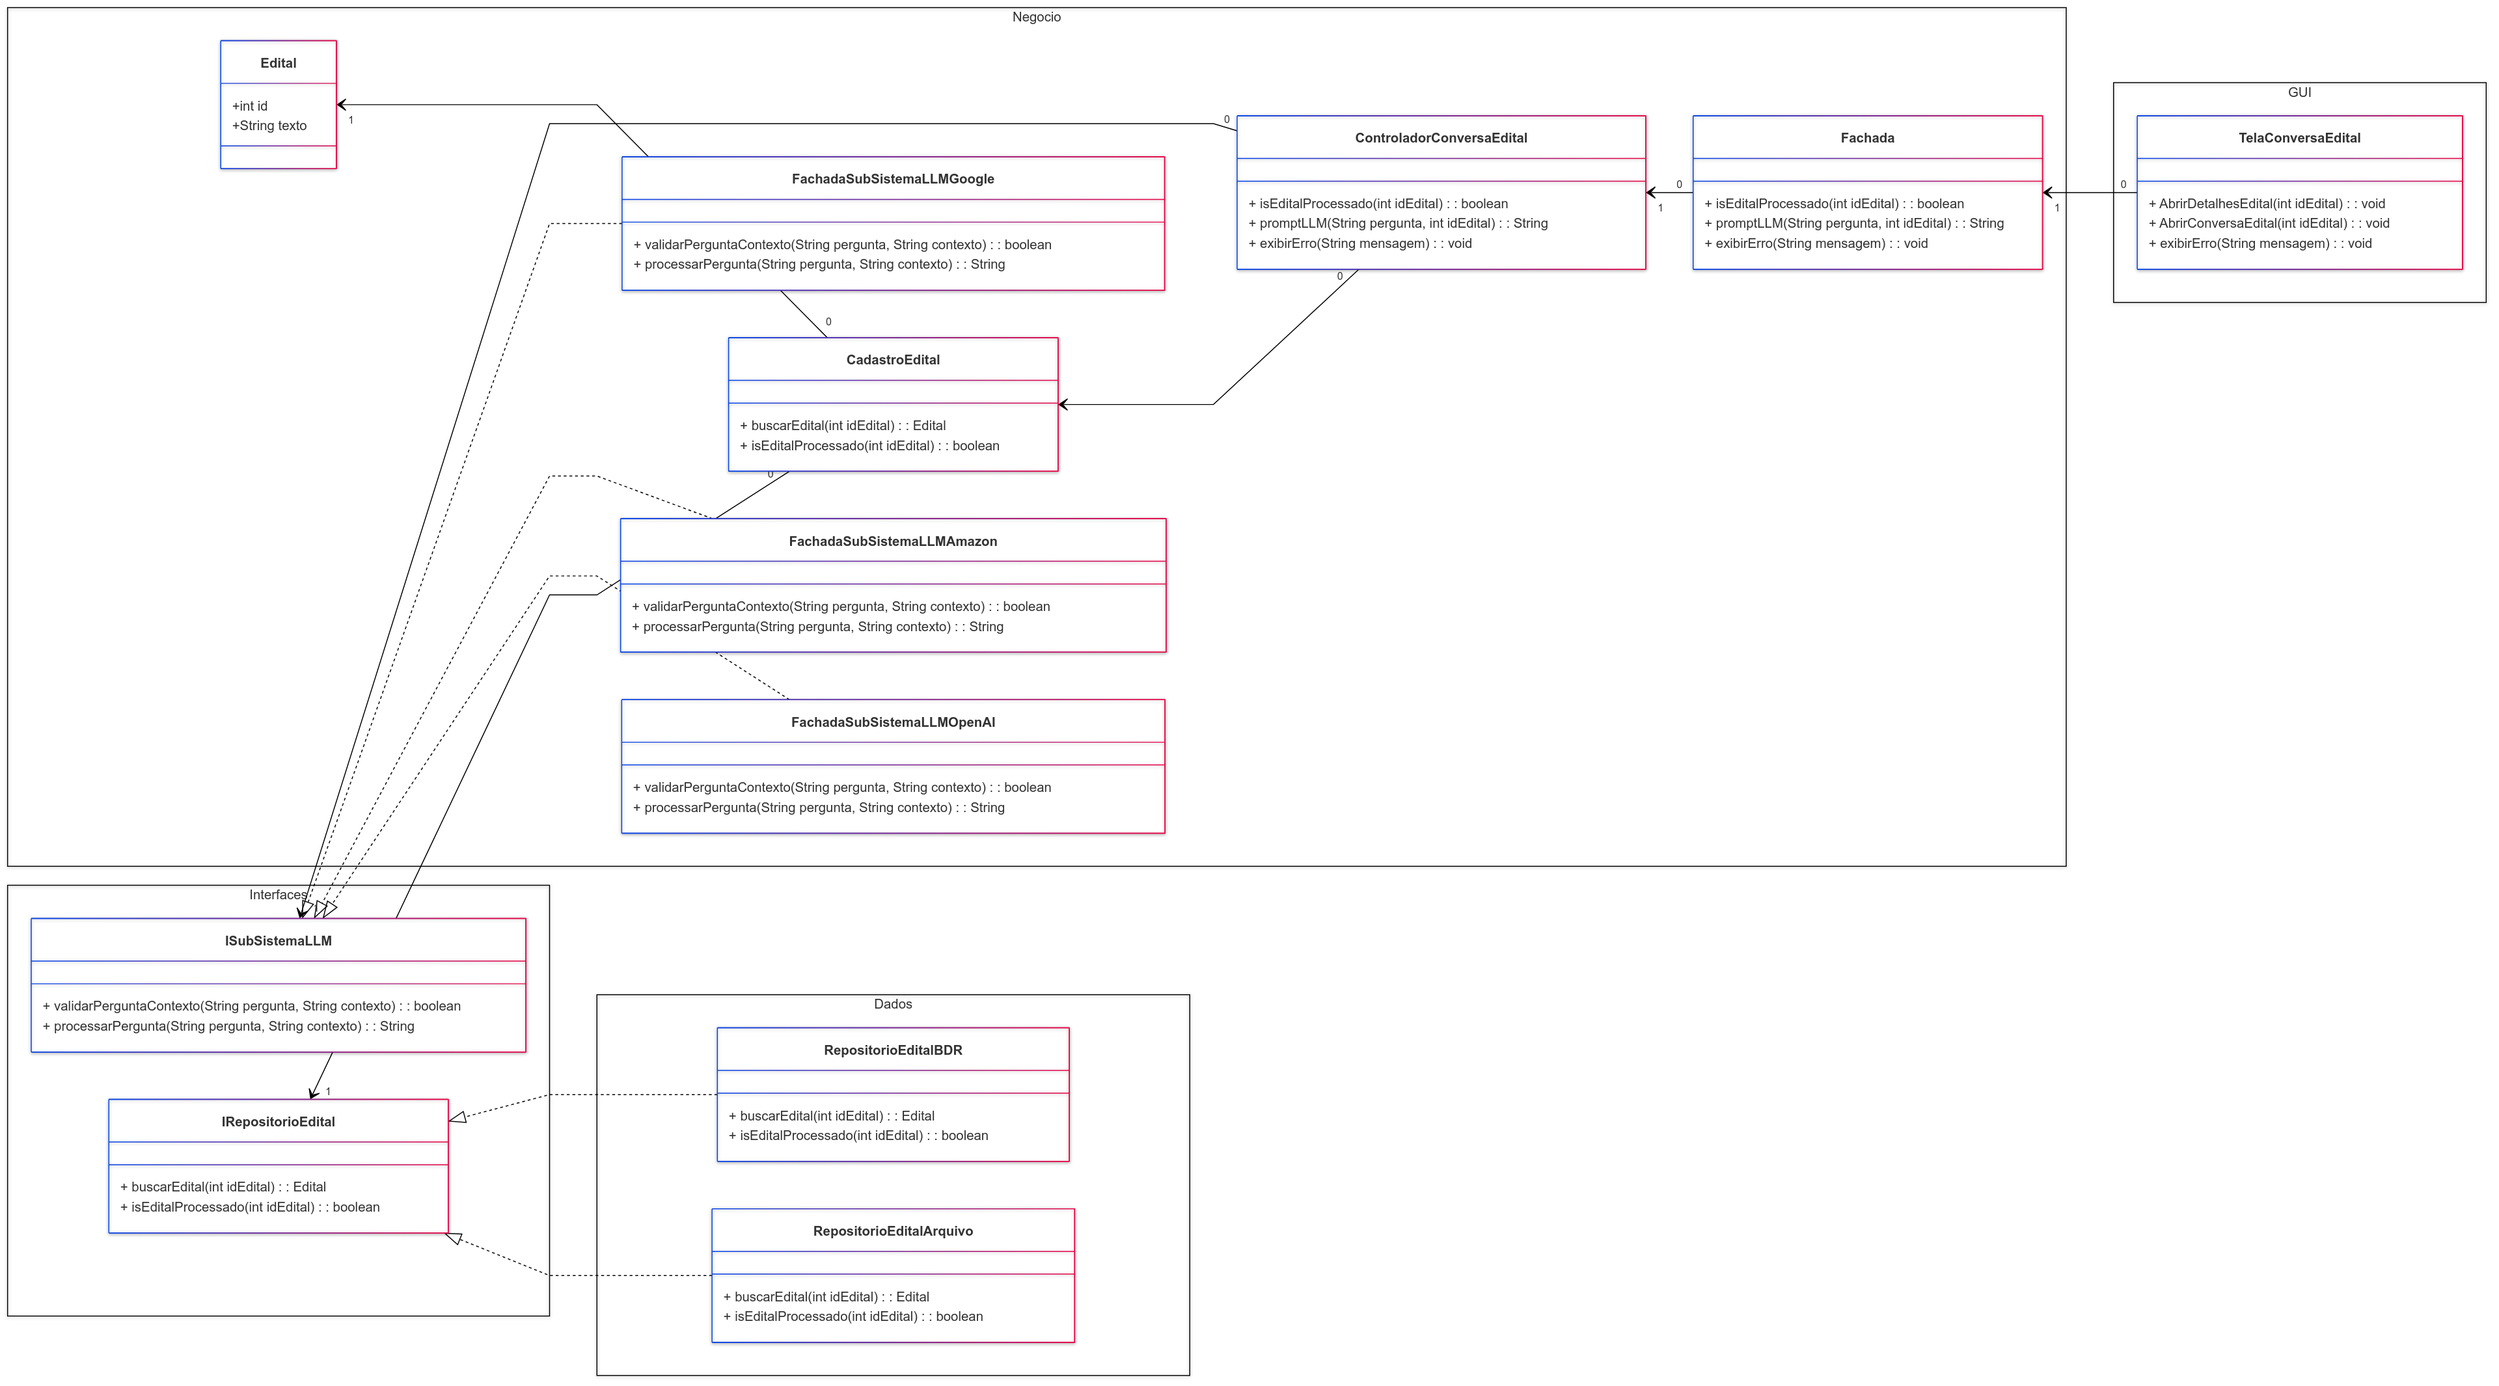
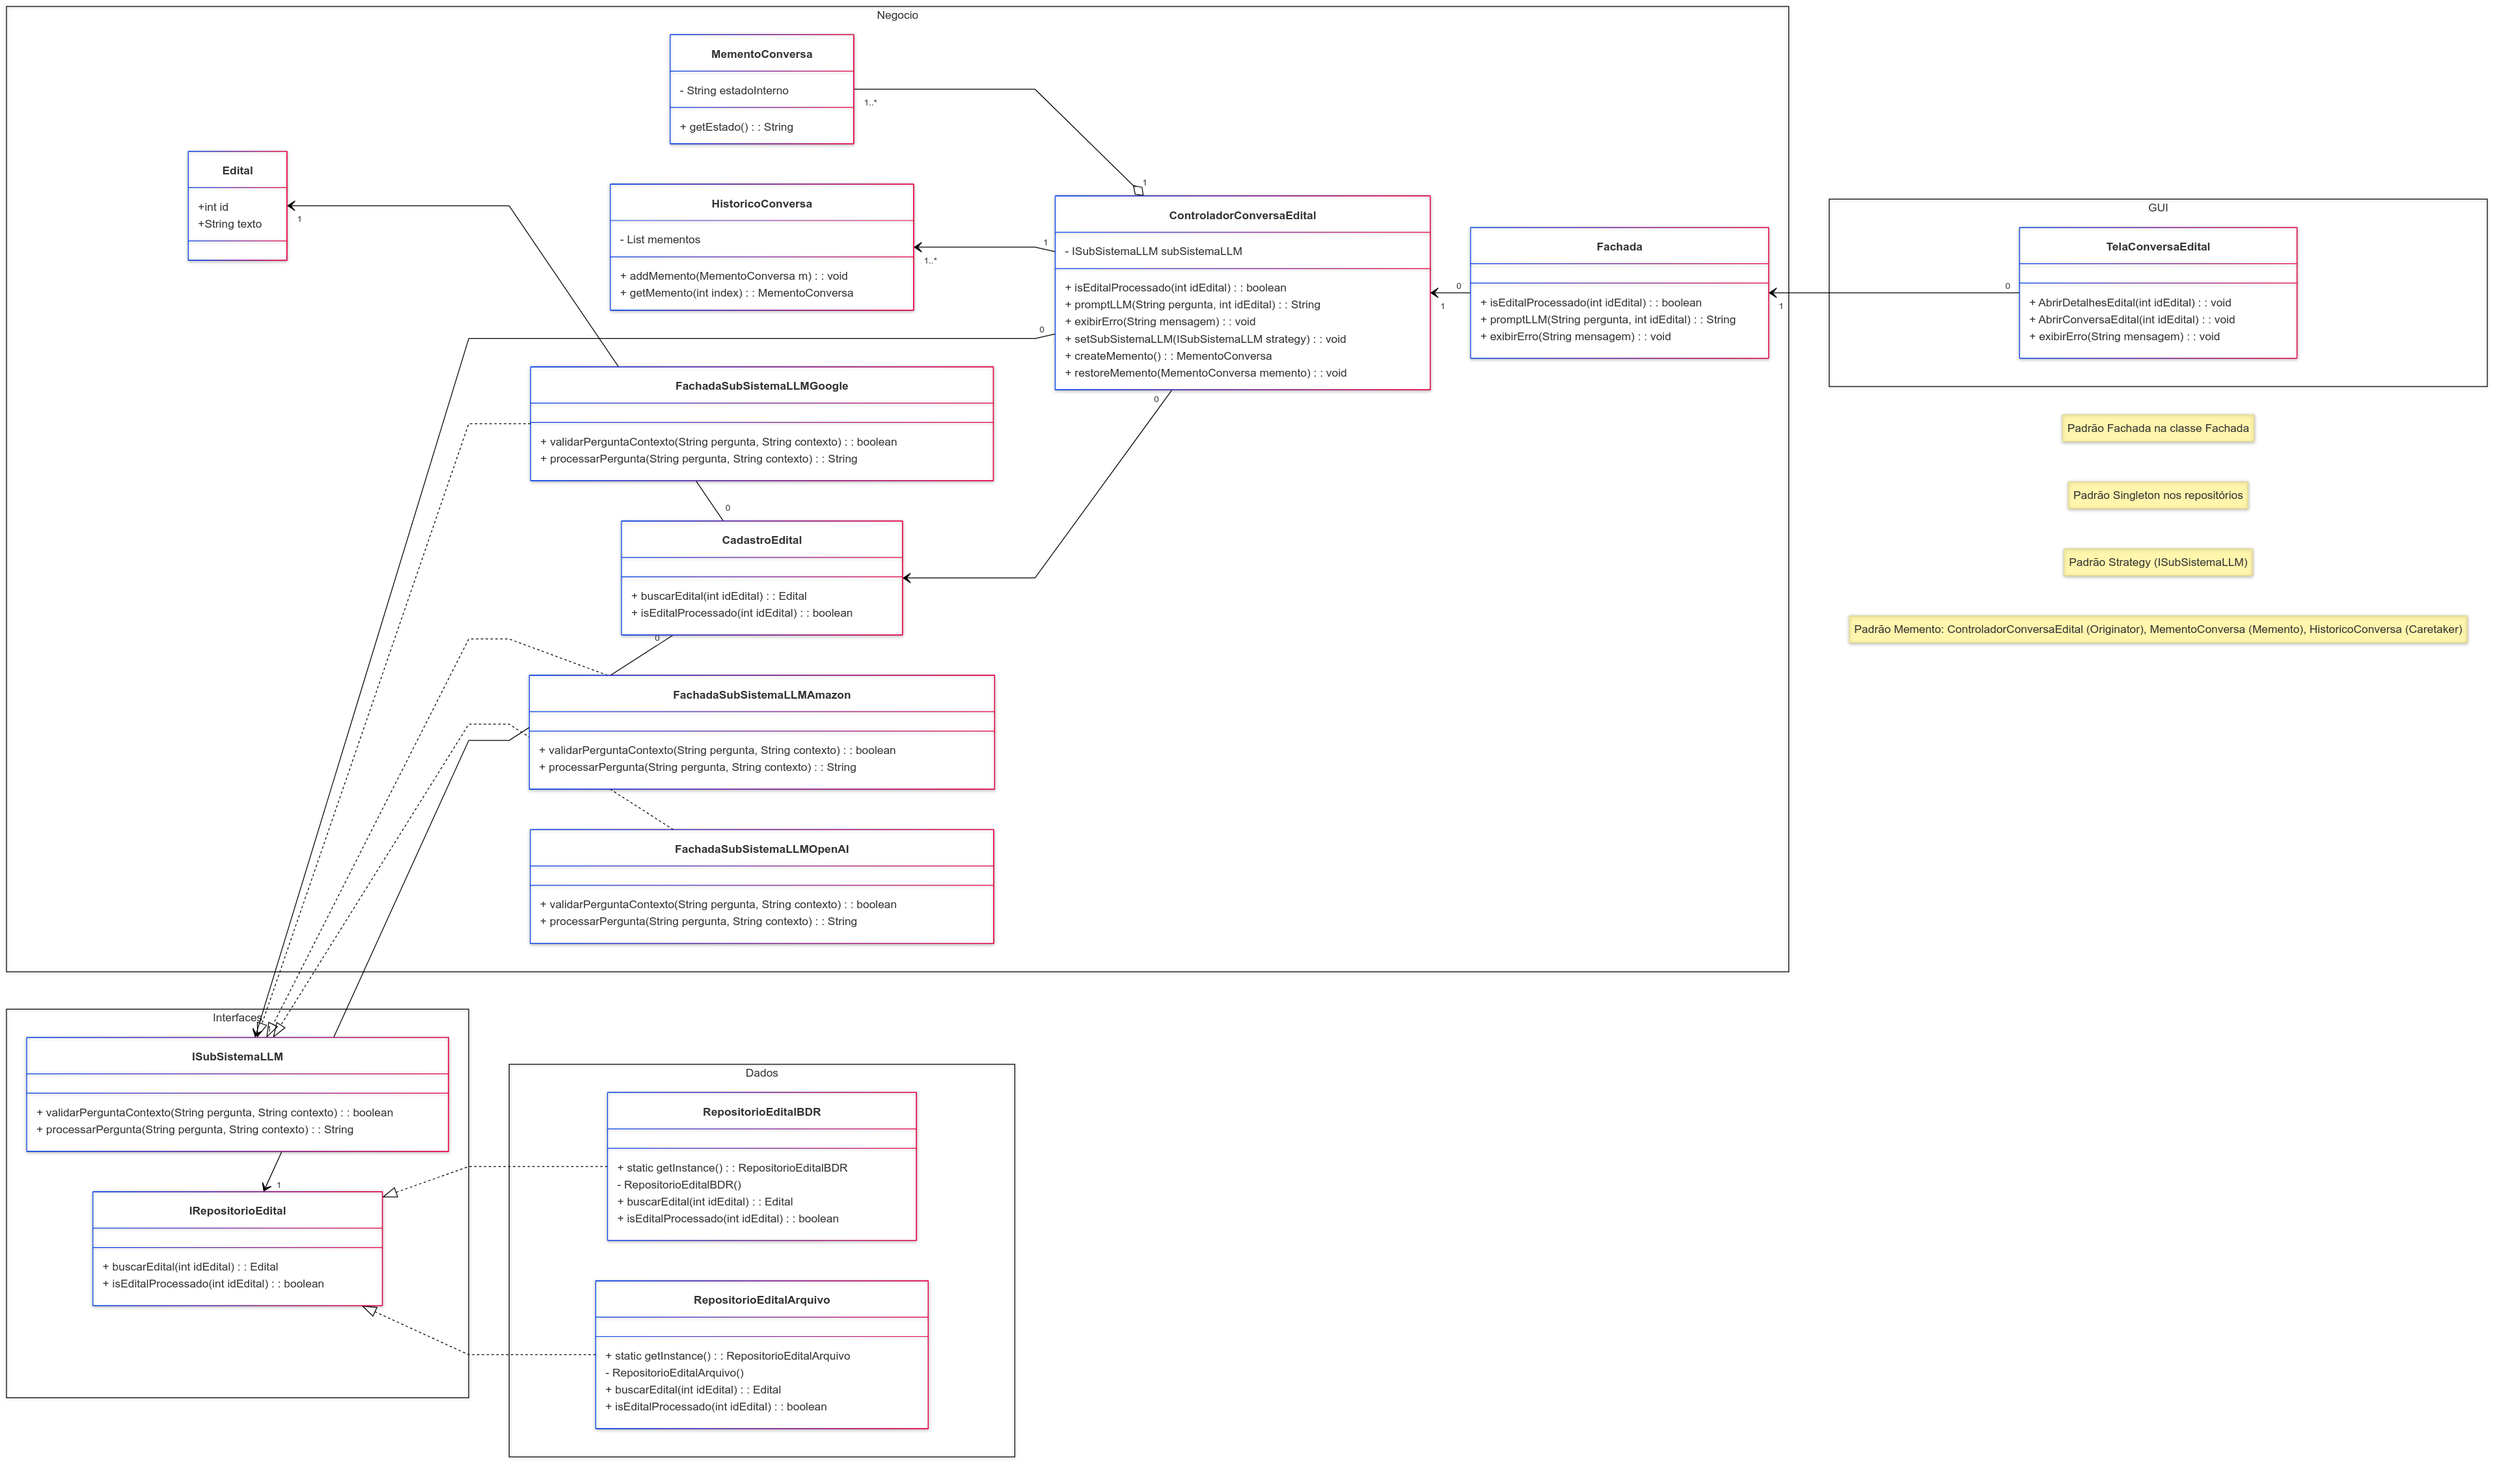
Facade, Singleton, Strategy and Memento

diff --git a/Projeto - ClassDiagram - ConversaEdital.md b/Projeto - ClassDiagram - ConversaEdital.md
@@ -5,6 +5,7 @@ config:
 ---
 classDiagram
     direction RL
+    
     namespace GUI {
         class TelaConversaEdital {
             + AbrirDetalhesEdital(int idEdital) : void
@@ -29,6 +30,21 @@ classDiagram
             + isEditalProcessado(int idEdital) : boolean
             + promptLLM(String pergunta, int idEdital) : String
             + exibirErro(String mensagem) : void
+            - ISubSistemaLLM subSistemaLLM
+            + setSubSistemaLLM(ISubSistemaLLM strategy) : void
+            + createMemento() : MementoConversa
+            + restoreMemento(MementoConversa memento) : void
+        }
+
+        class MementoConversa {
+            - String estadoInterno
+            + getEstado() : String
+        }
+
+        class HistoricoConversa {
+            + addMemento(MementoConversa m) : void
+            + getMemento(int index) : MementoConversa
+            - List<MementoConversa> mementos
         }
 
         class FachadaSubSistemaLLMGoogle {
@@ -66,11 +82,15 @@ classDiagram
 
     namespace Dados {
         class RepositorioEditalBDR {
+            + static getInstance() : RepositorioEditalBDR
+            - RepositorioEditalBDR()
             + buscarEdital(int idEdital) : Edital
             + isEditalProcessado(int idEdital) : boolean
         }
 
         class RepositorioEditalArquivo {
+            + static getInstance() : RepositorioEditalArquivo
+            - RepositorioEditalArquivo()
             + buscarEdital(int idEdital) : Edital
             + isEditalProcessado(int idEdital) : boolean
         }
@@ -87,3 +107,11 @@ classDiagram
     FachadaSubSistemaLLMOpenAI ..|> ISubSistemaLLM
     RepositorioEditalBDR ..|> IRepositorioEdital
     RepositorioEditalArquivo ..|> IRepositorioEdital
+
+    ControladorConversaEdital "1" --> "1..*" HistoricoConversa
+    ControladorConversaEdital "1" o-- "1..*" MementoConversa
+
+    note "Padrão Fachada na classe Fachada"
+    note "Padrão Singleton nos repositórios"
+    note "Padrão Strategy (ISubSistemaLLM)"
+    note "Padrão Memento: ControladorConversaEdital (Originator), MementoConversa (Memento), HistoricoConversa (Caretaker)"
